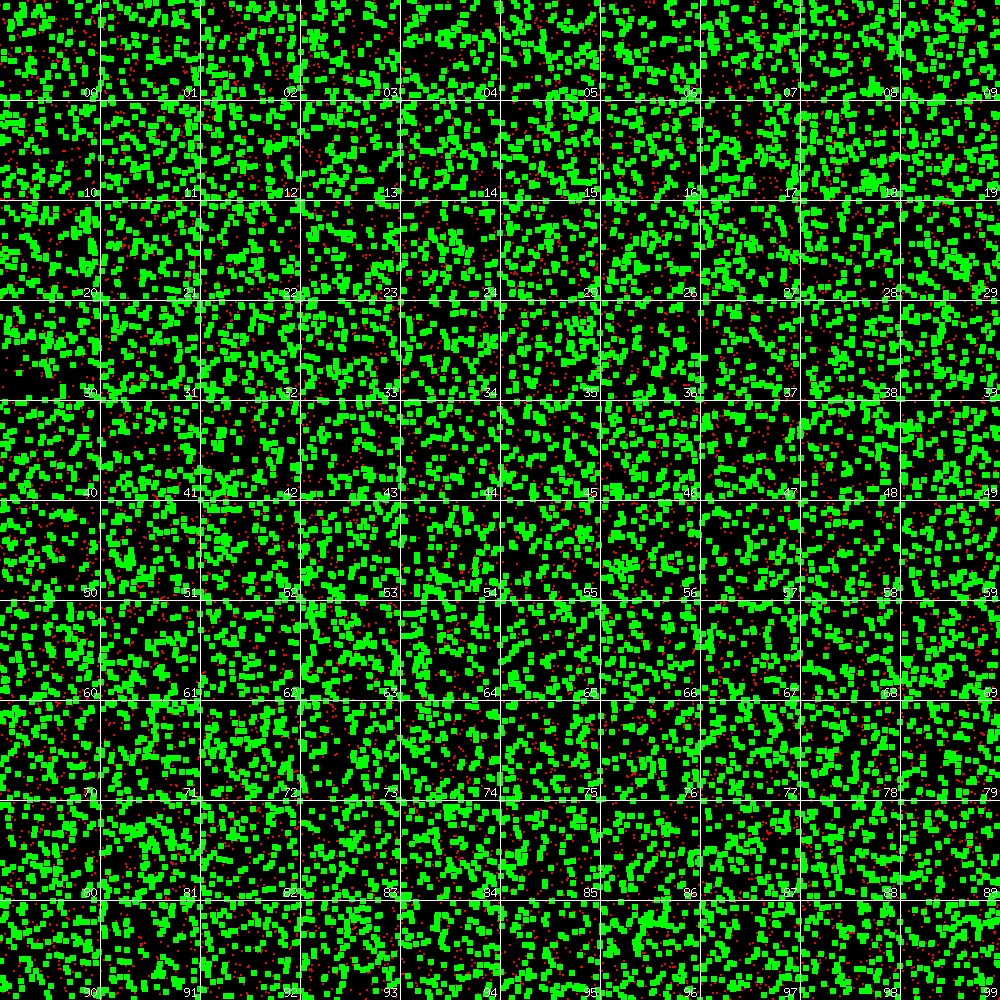
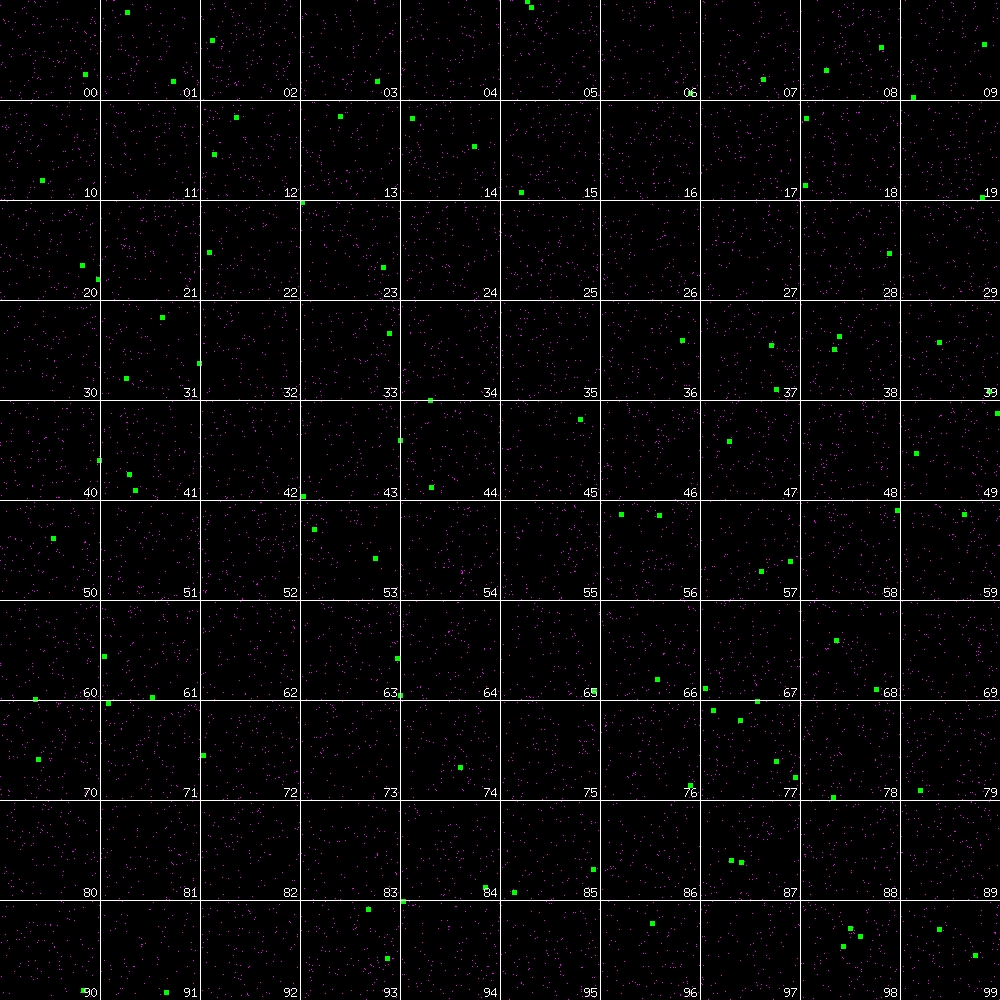
change larger and normal marker size

diff --git a/generator/generator.go b/generator/generator.go
@@ -103,11 +103,11 @@ func Generate(cfg Config) error {
 			return errors.Wrap(err, "map-generator")
 		}
 		for _, village := range m.Villages {
-			limit := 1
+			limit := 0
 			if m.Larger {
 				limit = 2
 			}
-			rect := image.Rect(village.X-limit, village.Y-limit, village.X+limit, village.Y+limit)
+			rect := image.Rect(village.X-limit, village.Y-limit, village.X+limit+1, village.Y+limit+1)
 			draw.Draw(img, rect, &image.Uniform{parsedColor}, image.Point{}, draw.Src)
 		}
 	}

diff --git a/example/main.go b/example/main.go
@@ -12,7 +12,7 @@ import (
 
 func main() {
 	villages := generateVillages(1)
-	villages2 := generateVillages(1)
+	villages2 := generateVillages(0.01)
 	t1 := time.Now()
 	f, _ := os.Create("image.jpeg")
 	defer f.Close()
@@ -26,7 +26,7 @@ func main() {
 		BackgroundColor:  "#000",
 		Markers: []*generator.Marker{
 			{
-				Color:    "#f00",
+				Color:    "#f0f",
 				Villages: villages,
 				Larger:   false,
 			},
